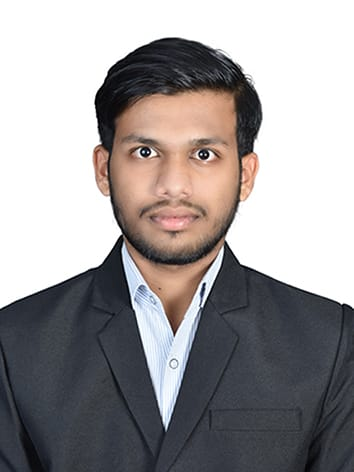
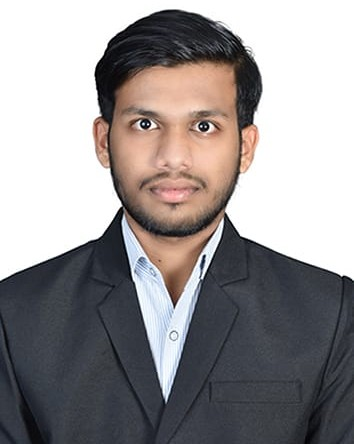
Redesign with particles, 3D tilt, JSON-based projects

diff --git a/frontend/js/main.js b/frontend/js/main.js
@@ -112,13 +112,40 @@ window.addEventListener("scroll", () => {
   }
 });
 
-// ================= PROJECTS: LOAD & RENDER =================
+// ================= PROJECTS: LOAD & RENDER (static JSON) =================
+
+// Maps known tech names to Devicon classes for nice colored logos.
+// Falls back to a generic code icon if not found.
+const TECH_ICON_MAP = {
+  "React": "devicon-react-original colored",
+  "Node.js": "devicon-nodejs-plain colored",
+  "Express": "devicon-express-original",
+  "MongoDB": "devicon-mongodb-plain colored",
+  "JavaScript": "devicon-javascript-plain colored",
+  "TypeScript": "devicon-typescript-plain colored",
+  "Tailwind CSS": "devicon-tailwindcss-original colored",
+  "Vite": "devicon-vitejs-plain colored",
+  "HTML5": "devicon-html5-plain colored",
+  "CSS3": "devicon-css3-plain colored",
+  "Git": "devicon-git-plain colored",
+};
+
+function techIconHtml(tech) {
+  const iconClass = TECH_ICON_MAP[tech];
+  if (iconClass) {
+    return `<i class="${iconClass}"></i>`;
+  }
+  return `<i class="fa-solid fa-code"></i>`;
+}
+
 async function loadProjects() {
   const grid = document.getElementById("projectsGrid");
   const loadingText = document.getElementById("loadingText");
 
   try {
-    const projects = await apiRequest("/projects", "GET");
+    const response = await fetch("projects/projects.json");
+    if (!response.ok) throw new Error("Could not load projects.json");
+    const projects = await response.json();
 
     if (!projects.length) {
       grid.innerHTML = `<p class="loading-text">Projects coming soon — check back shortly!</p>`;
@@ -127,20 +154,17 @@ async function loadProjects() {
 
     grid.innerHTML = "";
 
-    projects.forEach((project) => {
+    projects.forEach((project, index) => {
       const card = document.createElement("div");
-      card.className = "project-card";
+      // Alternate slide-in direction per card for a "slides" style entrance
+      const slideClass = index % 2 === 0 ? "reveal-left" : "reveal-right";
+      card.className = `project-card ${slideClass}`;
 
       const techTags = (project.techStack || [])
-        .map((tech) => `<span class="tech-tag">${escapeHtml(tech)}</span>`)
+        .map((tech) => `<span class="tech-tag">${techIconHtml(tech)} ${escapeHtml(tech)}</span>`)
         .join("");
 
       card.innerHTML = `
-        ${
-          project.imageUrl
-            ? `<img src="${escapeHtml(project.imageUrl)}" alt="${escapeHtml(project.title)}" class="project-card-img" />`
-            : ""
-        }
         <div class="project-card-body">
           <div class="project-card-title">
             ${escapeHtml(project.title)}
@@ -158,15 +182,22 @@ async function loadProjects() {
       grid.appendChild(card);
     });
 
-    // Enable tilt effect on the newly rendered cards
+    // Enable 3D tilt effect on the newly rendered cards
     if (typeof VanillaTilt !== "undefined") {
       VanillaTilt.init(document.querySelectorAll(".project-card"), {
-        max: 8,
+        max: 10,
         speed: 400,
         glare: true,
-        "max-glare": 0.15,
-        scale: 1.02,
+        "max-glare": 0.2,
+        scale: 1.03,
       });
+    }
+
+    // Apply alternating slide-in scroll reveal now that cards exist
+    if (typeof ScrollReveal !== "undefined") {
+      const sr = ScrollReveal({ duration: 700, easing: "cubic-bezier(0.5, 0, 0, 1)", reset: false });
+      sr.reveal(".reveal-left", { origin: "left", distance: "50px", interval: 100 });
+      sr.reveal(".reveal-right", { origin: "right", distance: "50px", interval: 100 });
     }
   } catch (error) {
     if (loadingText) {

diff --git a/frontend/index.html b/frontend/index.html
@@ -10,6 +10,7 @@
 <link rel="preconnect" href="https://fonts.googleapis.com" />
 <link href="https://fonts.googleapis.com/css2?family=Poppins:wght@400;500;600;700;800&family=Inter:wght@400;500;600&display=swap" rel="stylesheet" />
 <link rel="stylesheet" href="https://cdnjs.cloudflare.com/ajax/libs/font-awesome/6.5.1/css/all.min.css" />
+<link rel="stylesheet" href="https://cdn.jsdelivr.net/gh/devicons/devicon@v2.16.0/devicon.min.css" />
 
 <link rel="stylesheet" href="css/style.css" />
 </head>
@@ -67,10 +68,8 @@
       <div class="hero-socials reveal">
         <a href="https://github.com/pranavreddy1721" target="_blank" rel="noopener" aria-label="GitHub"><i class="fa-brands fa-github"></i></a>
         <a href="https://linkedin.com/in/pranavreddy1721" target="_blank" rel="noopener" aria-label="LinkedIn"><i class="fa-brands fa-linkedin"></i></a>
-        <a href="mailto:pranavreddy1721@gmail.com" aria-label="Email"><i class="fa-solid fa-envelope"></i></a>
-       <a href="https://leetcode.com/yourhandle" target="_blank" rel="noopener" aria-label="LeetCode"><i class="fa-solid fa-code"></i></a>
         <a href="https://www.instagram.com/__pranav1721__/" target="_blank" rel="noopener" aria-label="Instagram"><i class="fa-brands fa-instagram"></i></a>
-        
+        <a href="mailto:pranavreddy1721@gmail.com" aria-label="Email"><i class="fa-solid fa-envelope"></i></a>
       </div>
     </div>
 
@@ -81,6 +80,8 @@
 
   <!-- ================= ABOUT ================= -->
   <section class="about" id="about">
+    <div class="shape shape-about-1"></div>
+    <div class="shape shape-about-2"></div>
     <p class="section-tag reveal">Get To Know</p>
     <h2 class="section-title reveal">About Me</h2>
 
@@ -133,6 +134,7 @@
 
   <!-- ================= SKILLS ================= -->
   <section class="skills" id="skills">
+    <div class="shape shape-skills-1"></div>
     <p class="section-tag reveal">What I Know</p>
     <h2 class="section-title reveal">Skills</h2>
 
@@ -173,6 +175,7 @@
 
   <!-- ================= PROJECTS ================= -->
   <section class="projects" id="projects">
+    <div class="shape shape-projects-1"></div>
     <p class="section-tag reveal">My Work</p>
     <h2 class="section-title reveal">Projects</h2>
 
@@ -211,6 +214,7 @@
         <div class="contact-socials">
           <a href="https://github.com/pranavreddy1721" target="_blank" rel="noopener" aria-label="GitHub"><i class="fa-brands fa-github"></i></a>
           <a href="https://linkedin.com/in/pranavreddy1721" target="_blank" rel="noopener" aria-label="LinkedIn"><i class="fa-brands fa-linkedin"></i></a>
+          <a href="https://www.instagram.com/__pranav1721__/" target="_blank" rel="noopener" aria-label="Instagram"><i class="fa-brands fa-instagram"></i></a>
         </div>
       </div>
 
@@ -239,6 +243,7 @@
     <div class="footer-socials">
       <a href="https://github.com/pranavreddy1721" target="_blank" rel="noopener"><i class="fa-brands fa-github"></i></a>
       <a href="https://linkedin.com/in/pranavreddy1721" target="_blank" rel="noopener"><i class="fa-brands fa-linkedin"></i></a>
+      <a href="https://www.instagram.com/__pranav1721__/" target="_blank" rel="noopener"><i class="fa-brands fa-instagram"></i></a>
       <a href="mailto:pranavreddy1721@gmail.com"><i class="fa-solid fa-envelope"></i></a>
     </div>
   </footer>

diff --git a/frontend/css/style.css b/frontend/css/style.css
@@ -327,6 +327,8 @@ body[data-theme="light"] .theme-toggle .fa-moon { opacity: 0; transform: rotate(
   max-width: 1100px;
   margin: 0 auto;
   padding: 100px 24px;
+  position: relative;
+  overflow: hidden;
 }
 
 .about-content {
@@ -409,6 +411,8 @@ body[data-theme="light"] .theme-toggle .fa-moon { opacity: 0; transform: rotate(
   max-width: 1100px;
   margin: 0 auto;
   padding: 60px 24px 100px;
+  position: relative;
+  overflow: hidden;
 }
 
 .skills-grid {
@@ -470,6 +474,8 @@ body[data-theme="light"] .theme-toggle .fa-moon { opacity: 0; transform: rotate(
   max-width: 1100px;
   margin: 0 auto;
   padding: 60px 24px 100px;
+  position: relative;
+  overflow: hidden;
 }
 
 .projects-grid {
@@ -732,7 +738,15 @@ body[data-theme="light"] .theme-toggle .fa-moon { opacity: 0; transform: rotate(
 }
 
 /* ================= REVEAL (fallback if JS disabled) ================= */
-.reveal { opacity: 1; }
+.reveal, .reveal-left, .reveal-right { opacity: 1; }
+
+.tech-tag {
+  display: inline-flex;
+  align-items: center;
+  gap: 5px;
+}
+
+.tech-tag i { font-size: 13px; }
 
 /* ================= RESPONSIVE ================= */
 @media (max-width: 900px) {
@@ -765,6 +779,76 @@ body[data-theme="light"] .theme-toggle .fa-moon { opacity: 0; transform: rotate(
   .section-title { font-size: 26px; }
 
   .about-stats { grid-template-columns: repeat(3, 1fr); }
+}
+
+/* ================= DECORATIVE SHAPES ================= */
+.shape {
+  position: absolute;
+  border-radius: 50%;
+  filter: blur(60px);
+  opacity: 0.35;
+  z-index: 0;
+  pointer-events: none;
+  animation: floatShape 10s ease-in-out infinite;
+}
+
+body[data-theme="light"] .shape { opacity: 0.2; }
+
+.shape-about-1 {
+  width: 260px;
+  height: 260px;
+  top: -60px;
+  left: -100px;
+  background: var(--accent);
+}
+
+.shape-about-2 {
+  width: 200px;
+  height: 200px;
+  bottom: -60px;
+  right: -80px;
+  background: var(--accent-2);
+  animation-delay: 2s;
+}
+
+.shape-skills-1 {
+  width: 300px;
+  height: 300px;
+  top: 20%;
+  right: -120px;
+  background: var(--accent-2);
+}
+
+.shape-projects-1 {
+  width: 280px;
+  height: 280px;
+  bottom: 0;
+  left: -100px;
+  background: var(--accent);
+  animation-delay: 1s;
+}
+
+@keyframes floatShape {
+  0%, 100% { transform: translate(0, 0) scale(1); }
+  50% { transform: translate(20px, -25px) scale(1.08); }
+}
+
+.about-content,
+.skills-grid,
+.slider,
+.section-tag,
+.section-title {
+  position: relative;
+  z-index: 1;
+}
+
+/* Skill cards get a subtle 3D tilt via VanillaTilt (JS-driven), plus a hover pop */
+.skill-card {
+  transform-style: preserve-3d;
+}
+
+@media (max-width: 640px) {
+  .shape { display: none; }
 }
 
 @media (max-width: 480px) {
